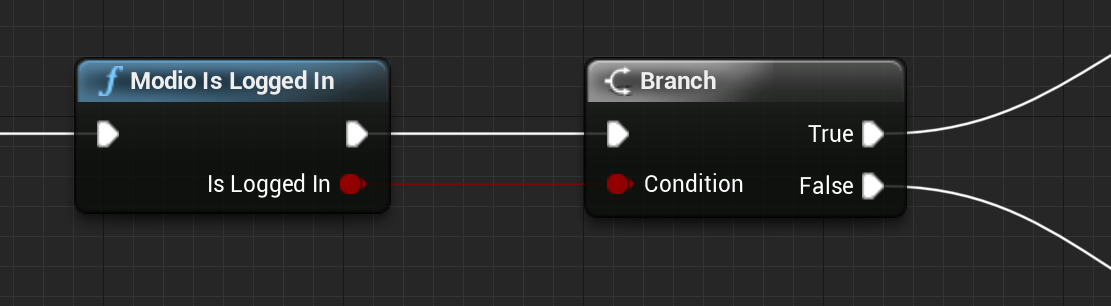
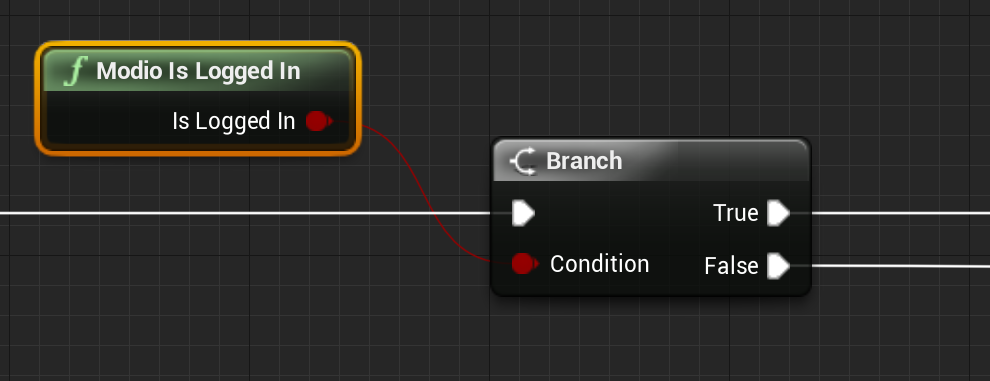
is logged in is now bluprintable pure

diff --git a/Source/modio/Private/modioModule.cpp b/Source/modio/Private/modioModule.cpp
@@ -90,6 +90,21 @@ void UModioBPFunctionLibrary::ModioEmailExchange(FString security_code)
   });
 }
 
+void UModioBPFunctionLibrary::ModioLogout()
+{
+  modio_instance->logout();
+}
+
+void UModioBPFunctionLibrary::ModioIsLoggedIn(bool &is_logged_in)
+{
+  is_logged_in = modio_instance->isLoggedIn();
+}
+
+void UModioBPFunctionLibrary::ModioGetAuthenticatedUser(FString &username)
+{
+  username = UTF8_TO_TCHAR(current_user_username.c_str());
+}
+
 void UModioBPFunctionLibrary::ModioGetAllInstalledMod(TArray<FModioInstalledMod> &installed_mods)
 {
   // use mod.io C++ wrapper instead of C
@@ -143,21 +158,6 @@ void UModioBPFunctionLibrary::ModioInstallDownloadedMods()
   modio_instance->installDownloadedMods();
 }
 
-void UModioBPFunctionLibrary::ModioLogout()
-{
-  modio_instance->logout();
-}
-
-void UModioBPFunctionLibrary::ModioIsLoggedIn(bool &is_logged_in)
-{
-  is_logged_in = modio_instance->isLoggedIn();
-}
-
-void UModioBPFunctionLibrary::ModioGetAuthenticatedUser(FString &username)
-{
-  username = UTF8_TO_TCHAR(current_user_username.c_str());
-}
-
 void UModioBPFunctionLibrary::ModioGetAllMods(TEnumAsByte<ModioFilterEnum::Type> filter_type, int32 limit, int32 offset)
 {
   modio::FilterCreator filter_creator;
@@ -209,6 +209,23 @@ void UModioBPFunctionLibrary::ModioAddModfile(int32 mod_id, FModioModfileCreator
   modio::ModfileCreator modio_modfile_creator;
   modio_modfile_creator.setPath(std::string(TCHAR_TO_UTF8(*modfile_creator.Path)));
   modio_instance->addModfile(mod_id, modio_modfile_creator);
+}
+
+void UModioBPFunctionLibrary::ModioGetModfileUploadQueue(TArray<FModioQueuedModfileUpload> &upload_queue)
+{
+  // use mod.io C++ wrapper instead of C
+  u32 upload_queue_count = modioGetModfileUploadQueueCount();
+  ModioQueuedModfileUpload *modio_queued_mods = (ModioQueuedModfileUpload *)malloc(upload_queue_count * sizeof(*modio_queued_mods));
+  modioGetModfileUploadQueue(modio_queued_mods);
+
+  for (u32 i = 0; i < upload_queue_count; i++)
+  {
+    FModioQueuedModfileUpload queued_mod;
+    initializeQueuedModfileUploadC(queued_mod, modio_queued_mods[i]);
+    upload_queue.Add(queued_mod);
+  }
+
+  free(modio_queued_mods);
 }
 
 bool FModioModule::HandleSettingsSaved()

diff --git a/Source/modio/Public/modioModule.h b/Source/modio/Public/modioModule.h
@@ -37,14 +37,29 @@ class UModioBPFunctionLibrary : public UBlueprintFunctionLibrary
 {
   GENERATED_UCLASS_BODY()
 
+  // Process
+
   UFUNCTION(BlueprintCallable, Category = "mod.io")
   static void ModioProcess();
+
+  // Authentication
 
   UFUNCTION(BlueprintCallable, Category = "mod.io")
   static void ModioEmailRequest(FString email);
 
   UFUNCTION(BlueprintCallable, Category = "mod.io")
   static void ModioEmailExchange(FString security_code);
+
+  UFUNCTION(BlueprintCallable, Category = "mod.io")
+  static void ModioLogout();
+
+  UFUNCTION(BlueprintPure, Category = "mod.io")
+  static void ModioIsLoggedIn(bool &is_logged_in);
+
+  UFUNCTION(BlueprintCallable, Category = "mod.io")
+  static void ModioGetAuthenticatedUser(FString &username);
+
+  // Downloads and installs
 
   UFUNCTION(BlueprintPure, Category = "mod.io")
   static void ModioGetAllInstalledMod(TArray<FModioInstalledMod> &installed_mods);
@@ -55,17 +70,12 @@ class UModioBPFunctionLibrary : public UBlueprintFunctionLibrary
   UFUNCTION(BlueprintCallable, Category = "mod.io")
   static void ModioInstallDownloadedMods();
 
-  UFUNCTION(BlueprintCallable, Category = "mod.io")
-  static void ModioLogout();
-
-  UFUNCTION(BlueprintCallable, Category = "mod.io")
-  static void ModioIsLoggedIn(bool &is_logged_in);
-
-  UFUNCTION(BlueprintCallable, Category = "mod.io")
-  static void ModioGetAuthenticatedUser(FString &username);
+  // Browsing
 
   UFUNCTION(BlueprintCallable, Category = "mod.io")
   static void ModioGetAllMods(TEnumAsByte<ModioFilterEnum::Type> filter_type, int32 limit, int32 offset);
+
+  // Mod creation and uploads
 
   UFUNCTION(BlueprintCallable, Category = "mod.io")
   static void ModioAddMod(FModioModCreator mod_creator);
@@ -75,4 +85,7 @@ class UModioBPFunctionLibrary : public UBlueprintFunctionLibrary
 
   UFUNCTION(BlueprintCallable, Category = "mod.io")
   static void ModioAddModfile(int32 mod_id, FModioModfileCreator modfile_creator);
+
+  UFUNCTION(BlueprintPure, Category = "mod.io")
+  static void ModioGetModfileUploadQueue(TArray<FModioQueuedModfileUpload> &upload_queue);
 };

diff --git a/Source/modio/Public/ModioSchemas.h b/Source/modio/Public/ModioSchemas.h
@@ -59,6 +59,23 @@ struct FModioQueuedModDownload
 };
 
 USTRUCT(BlueprintType)
+struct FModioQueuedModfileUpload
+{
+  GENERATED_BODY()
+
+  UPROPERTY(EditAnywhere, BlueprintReadWrite, Category = "mod.io")
+  int32 State;
+  UPROPERTY(EditAnywhere, BlueprintReadWrite, Category = "mod.io")
+  int32 ModId;
+  UPROPERTY(EditAnywhere, BlueprintReadWrite, Category = "mod.io")
+  int32 CurrentProgress;
+  UPROPERTY(EditAnywhere, BlueprintReadWrite, Category = "mod.io")
+  int32 TotalSize;
+  UPROPERTY(EditAnywhere, BlueprintReadWrite, Category = "mod.io")
+  FString Path;
+};
+
+USTRUCT(BlueprintType)
 struct FModioModCreator
 {
   GENERATED_BODY()
@@ -93,3 +110,4 @@ extern void initializeMod(FModioMod &mod, modio::Mod modio_mod);
 extern void initializeModC(FModioMod &mod, ModioMod modio_mod);
 extern void initializeInstalledModC(FModioInstalledMod &installed_mod, ModioInstalledMod modio_installed_mod);
 extern void initializeQueuedModDownloadC(FModioQueuedModDownload &queued_mod_download, ModioQueuedModDownload modio_queued_mod_download);
+extern void initializeQueuedModfileUploadC(FModioQueuedModfileUpload &queued_modfile_upload, ModioQueuedModfileUpload modio_queued_modfile_upload);

diff --git a/Source/modio/Private/ModioSchemas.cpp b/Source/modio/Private/ModioSchemas.cpp
@@ -29,3 +29,12 @@ void initializeQueuedModDownloadC(FModioQueuedModDownload &queued_mod_download, 
   queued_mod_download.TotalSize = modio_queued_mod_download.total_size;
   initializeModC(queued_mod_download.mod, modio_queued_mod_download.mod);
 }
+
+void initializeQueuedModfileUploadC(FModioQueuedModfileUpload &queued_modfile_upload, ModioQueuedModfileUpload modio_queued_modfile_upload)
+{
+  queued_modfile_upload.State = modio_queued_modfile_upload.state;
+  queued_modfile_upload.ModId = modio_queued_modfile_upload.mod_id;
+  queued_modfile_upload.CurrentProgress = modio_queued_modfile_upload.current_progress;
+  queued_modfile_upload.TotalSize = modio_queued_modfile_upload.total_size;
+  queued_modfile_upload.Path = UTF8_TO_TCHAR(modio_queued_modfile_upload.path);
+}
